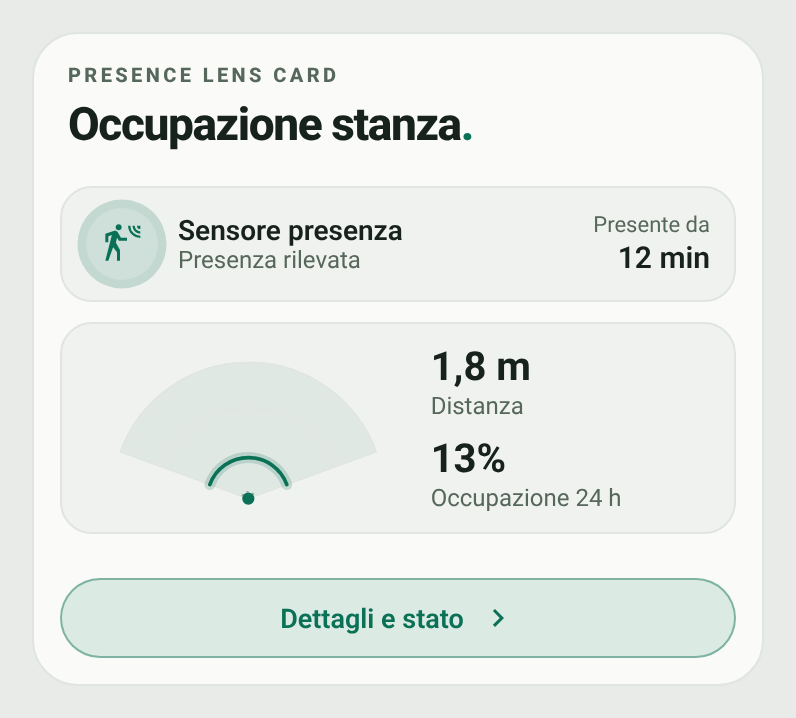
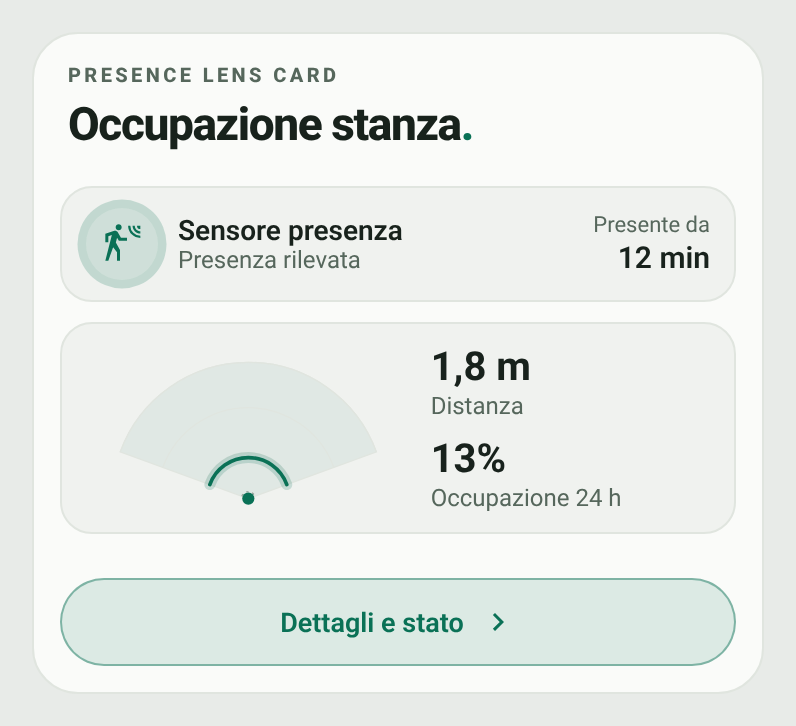
Resize details pill, fold the history list and keep the page position on close

diff --git a/dist/presence-lens-card.js b/dist/presence-lens-card.js
@@ -13,6 +13,8 @@
   const EDITOR_TAG = 'presence-lens-card-editor';
   const IS_PHONE = Math.min(window.screen ? window.screen.width : 9999, window.screen ? window.screen.height : 9999) < 600;
   const DAY = 86400000;
+  const EV_FOLD = 5;             // events shown in the popup before "Show full history"
+  const EV_MAX = 300;            // upper bound of the expanded list
   const HIST_REFRESH = 300000;   // history is requested at most every 5 minutes (60 s when the popup opens)
   const HIST_RETRY = 600000;     // after a failed request, wait 10 minutes before trying again
 
@@ -32,7 +34,7 @@
       na_note: 'Lo stato non disponibile non viene mai trattato come assenza di persone.',
       history: 'Cronologia', f_all: 'Tutto', f_on: 'Presenza', f_off: 'Assenza', f_na: 'Non disponibile',
       ev_on: 'Presenza rilevata', ev_off: 'Nessuna presenza', ev_na: 'Non disponibile', in_progress: 'in corso',
-      no_hist: 'Storico non disponibile. Serve Recorder con la cronologia abilitata.', no_events: 'Nessun evento per questo filtro.',
+      no_hist: 'Storico non disponibile. Serve Recorder con la cronologia abilitata.', no_events: 'Nessun evento per questo filtro.', show_all: 'Mostra tutta la cronologia', show_less: 'Mostra meno', n_events: 'eventi',
       no_target: 'Nessun bersaglio', na_radar: 'Sensore non disponibile', today: 'Oggi', yesterday: 'Ieri',
       example: 'Esempio', missing: 'Entità non trovata', missing_hint: 'Controlla l’entità nella configurazione della card:',
       u_min: 'min', u_h: 'h', u_d: 'g', radar_alt_on: 'Radar: bersaglio a', radar_alt_off: 'Radar: nessun bersaglio', radar_alt_na: 'Radar: sensore non disponibile',
@@ -53,7 +55,7 @@
       na_note: 'An unavailable state is never treated as nobody being there.',
       history: 'History', f_all: 'All', f_on: 'Presence', f_off: 'Absence', f_na: 'Unavailable',
       ev_on: 'Presence detected', ev_off: 'No presence', ev_na: 'Unavailable', in_progress: 'ongoing',
-      no_hist: 'History not available. It needs Recorder with history enabled.', no_events: 'No events for this filter.',
+      no_hist: 'History not available. It needs Recorder with history enabled.', no_events: 'No events for this filter.', show_all: 'Show full history', show_less: 'Show less', n_events: 'events',
       no_target: 'No target', na_radar: 'Sensor unavailable', today: 'Today', yesterday: 'Yesterday',
       example: 'Example', missing: 'Entity not found', missing_hint: 'Check the entity in the card configuration:',
       u_min: 'min', u_h: 'h', u_d: 'd', radar_alt_on: 'Radar: target at', radar_alt_off: 'Radar: no target', radar_alt_na: 'Radar: sensor unavailable',
@@ -227,7 +229,7 @@ ha-icon{display:block;flex:none;margin:0;--mdc-icon-size:20px;width:20px;height:
 .sbox .strip{height:8px;border-radius:4px}
 .sbox .shd{display:flex;justify-content:space-between;gap:8px;font-size:11px;color:var(--muted)}
 .sbox .shd b{font-weight:600;color:var(--fg)}
-.detail{display:flex;align-items:center;justify-content:center;gap:8px;width:100%;min-height:40px;padding:8px 14px;border-radius:999px;font-weight:600;font-size:13.5px;line-height:1.2;color:var(--btn-fg);border:1px solid color-mix(in srgb,var(--accent) 45%,transparent);background:color-mix(in srgb,var(--accent) 12%,transparent)}
+.detail{display:flex;align-items:center;justify-content:center;gap:8px;width:100%;min-height:44px;padding:10px 14px;border-radius:999px;font-weight:600;font-size:13.5px;line-height:1.2;color:var(--btn-fg);border:1px solid color-mix(in srgb,var(--accent) 45%,transparent);background:color-mix(in srgb,var(--accent) 12%,transparent)}
 .detail:hover{background:color-mix(in srgb,var(--accent) 22%,transparent)}
 .detail ha-icon{--mdc-icon-size:18px;width:18px;height:18px}
 .err{display:grid;gap:6px}
@@ -318,6 +320,7 @@ ha-icon{display:block;flex:none;margin:0;--mdc-icon-size:20px;width:20px;height:
 .mini .ml{font-size:12px;color:var(--muted)}
 .mini strong{font-size:16px;font-weight:600;font-variant-numeric:tabular-nums;white-space:nowrap;overflow:hidden;text-overflow:ellipsis}
 .chips{display:flex;flex-wrap:wrap;gap:6px}
+.more{display:block;width:100%;margin:8px 0 0;min-height:40px;border-radius:999px;border:1px solid var(--line);background:var(--bg);color:var(--fg);font:inherit;font-size:13px;font-weight:600;cursor:pointer}
 .chip{min-height:36px;padding:0 14px;border:1px solid var(--line);border-radius:999px;background:var(--bg);color:var(--muted);font-size:13px}
 .chip[aria-pressed="true"]{background:color-mix(in srgb,var(--accent) 14%,transparent);border-color:color-mix(in srgb,var(--accent) 45%,transparent);color:var(--fg);font-weight:600}
 .evs{display:grid;gap:8px}
@@ -338,7 +341,7 @@ ha-icon{display:block;flex:none;margin:0;--mdc-icon-size:20px;width:20px;height:
       this.shadowRoot.innerHTML = '<style>' + CARD_CSS + '</style><div id="r"></div>';
       this._root = this.shadowRoot.getElementById('r');
       this._cfg = null; this._hass = null; this._sig = null;
-      this._popup = false; this._filter = 'all'; this._focus = '';
+      this._popup = false; this._filter = 'all'; this._histAll = false; this._focus = '';
       this._hist = null; this._histAt = 0; this._histFail = 0; this._histBusy = false; this._histVer = 0;
       this._wide = false; this._timer = null;
       this._onKey = (e) => this._key(e);
@@ -558,14 +561,19 @@ ha-icon{display:block;flex:none;margin:0;--mdc-icon-size:20px;width:20px;height:
     _eventsHTML(m, T) {
       let list = m.segs.slice().reverse();
       if (this._filter !== 'all') list = list.filter((x) => x.st === this._filter);
+      const total = list.length;
+      if (total > EV_FOLD) list = list.slice(0, this._histAll ? EV_MAX : EV_FOLD);
       if (!list.length) return '<div class="empty">' + ic('mdi:information-outline') + '<span>' + esc(T.no_events) + '</span></div>';
       const last = m.segs[m.segs.length - 1];
-      return '<div class="evs">' + list.slice(0, 60).map((x) => {
+      const more = total > EV_FOLD
+        ? '<button class="more" type="button" data-more="1" aria-expanded="' + (this._histAll ? 'true' : 'false') + '">' + esc(this._histAll ? T.show_less : T.show_all + ' · ' + total + ' ' + T.n_events) + '</button>'
+        : '';
+      return '<div class="evs">' + list.map((x) => {
         const lv = x.st === 'on' ? 'ok' : x.st === 'na' ? 'warn' : 'neutral';
         const icn = x.st === 'on' ? 'mdi:motion-sensor' : x.st === 'na' ? 'mdi:alert-circle-outline' : 'mdi:motion-sensor-off';
         return '<div class="ev"><span class="ico ico-' + lv + '">' + ic(icn) + '</span><div class="evt"><div class="evn">' + esc(T['ev_' + x.st]) + '</div><div class="evs2">' +
           esc(this._clock(x.start, m.now)) + ' · ' + (x === last ? esc(T.in_progress) + ', ' : '') + esc(this._fmtDur(x.end - x.start)) + '</div></div></div>';
-      }).join('') + '</div>';
+      }).join('') + more + '</div>';
     }
     _popupHTML(m) {
       const c = this._cfg, T = this._T();
@@ -614,7 +622,7 @@ ha-icon{display:block;flex:none;margin:0;--mdc-icon-size:20px;width:20px;height:
       const m = this._model();
       const body = this._root.querySelector('.mbody');
       const top = body ? body.scrollTop : 0;
-      const act = this.shadowRoot.activeElement ? this.shadowRoot.activeElement.id || (this.shadowRoot.activeElement.dataset && this.shadowRoot.activeElement.dataset.filter ? 'f-' + this.shadowRoot.activeElement.dataset.filter : '') : '';
+      const act = this.shadowRoot.activeElement ? this.shadowRoot.activeElement.id || (this.shadowRoot.activeElement.dataset && this.shadowRoot.activeElement.dataset.filter ? 'f-' + this.shadowRoot.activeElement.dataset.filter : (this.shadowRoot.activeElement.dataset && this.shadowRoot.activeElement.dataset.more ? 'more' : '')) : '';
       if (this._popup) this._wide = this._layoutWide();
       this._root.innerHTML = this._cardHTML(m) + (this._popup && !m.missing ? this._popupHTML(m) : '');
       if (this._popup) {
@@ -626,6 +634,7 @@ ha-icon{display:block;flex:none;margin:0;--mdc-icon-size:20px;width:20px;height:
       if (want) {
         let el = null;
         if (want.indexOf('f-') === 0) el = this._root.querySelector('[data-filter="' + want.slice(2) + '"]');
+        else if (want === 'more') el = this._root.querySelector('[data-more]');
         else el = this.shadowRoot.getElementById(want);
         if (el) el.focus({ preventScroll: true });
       }
@@ -633,15 +642,53 @@ ha-icon{display:block;flex:none;margin:0;--mdc-icon-size:20px;width:20px;height:
 
     /* ---- interaction ---- */
     _click(e) {
-      const t = e.target && e.target.closest ? e.target.closest('[data-open],[data-close],[data-filter],[data-backdrop]') : null;
+      const t = e.target && e.target.closest ? e.target.closest('[data-open],[data-close],[data-filter],[data-more],[data-backdrop]') : null;
       if (!t) return;
       if (t.dataset.backdrop) { if (e.target === t) this._closePopup(); return; }
       if (t.dataset.open) { this._openPopup(); return; }
       if (t.dataset.close) { this._closePopup(); return; }
-      if (t.dataset.filter) { this._filter = t.dataset.filter; this._focus = 'f-' + t.dataset.filter; this._render(); }
+      if (t.dataset.filter) { this._filter = t.dataset.filter; this._histAll = false; this._focus = 'f-' + t.dataset.filter; this._render(); return; }
+      if (t.dataset.more) {
+        const collapse = this._histAll;
+        this._histAll = !this._histAll; this._focus = 'more'; this._render();
+        if (collapse) { // back to the top of the history so the reader does not end up in the middle of nowhere
+          const nb = this._root.querySelector('.mbody'), hb = this._root.querySelector('.b-hist');
+          if (nb && hb) nb.scrollTop = Math.max(0, nb.scrollTop + hb.getBoundingClientRect().top - nb.getBoundingClientRect().top - 8);
+        }
+      }
+    }
+    // Scrollable ancestors of the card (crossing shadow roots) plus the page: the dashboard behind the popup is locked,
+    // so whatever they scroll to while the popup is open must still be there when it closes.
+    _scrollers() {
+      const out = [];
+      let n = this;
+      while (n) {
+        if (n.nodeType === 1) {
+          const oy = window.getComputedStyle(n).overflowY;
+          if ((oy === 'auto' || oy === 'scroll') && n.scrollHeight > n.clientHeight) out.push([n, n.scrollTop]);
+        }
+        n = n.parentNode || n.host || null;
+      }
+      const se = document.scrollingElement;
+      if (se && !out.some((x) => x[0] === se)) out.push([se, se.scrollTop]);
+      return out;
+    }
+    _restoreScroll() {
+      const saved = this._sc; this._sc = null;
+      if (!saved || !saved.length) return;
+      let stop = false;
+      const halt = () => { stop = true; };
+      window.addEventListener('touchstart', halt, { once: true, passive: true, capture: true });
+      window.addEventListener('wheel', halt, { once: true, passive: true, capture: true });
+      const fix = () => { if (!stop) saved.forEach((x) => { if (Math.abs(x[0].scrollTop - x[1]) > 1) x[0].scrollTop = x[1]; }); };
+      fix();
+      window.requestAnimationFrame(() => { fix(); window.requestAnimationFrame(fix); });
+      window.setTimeout(fix, 150);
+      window.setTimeout(() => { fix(); window.removeEventListener('touchstart', halt, true); window.removeEventListener('wheel', halt, true); }, 400);
     }
     _openPopup() {
-      this._popup = true; this._filter = 'all'; this._focus = 'close'; this._wide = this._layoutWide();
+      this._sc = this._scrollers();
+      this._popup = true; this._filter = 'all'; this._histAll = false; this._focus = 'close'; this._wide = this._layoutWide();
       document.addEventListener('keydown', this._onKey, true);
       this._render();
       this._ensureHistory(false);
@@ -650,7 +697,14 @@ ha-icon{display:block;flex:none;margin:0;--mdc-icon-size:20px;width:20px;height:
       if (!this._popup) return;
       this._popup = false;
       document.removeEventListener('keydown', this._onKey, true);
-      this._focus = 'open'; this._render();
+      // only the popup is taken away: the card underneath is not rebuilt, so the page behind it has no reason to move
+      const bd = this._root.querySelector('.backdrop'), op = this.shadowRoot.getElementById('open');
+      if (bd && op) {
+        op.focus({ preventScroll: true });
+        bd.remove();
+        this._sig = null;
+      } else { this._focus = 'open'; this._render(); }
+      this._restoreScroll();
     }
     // The dashboard behind the popup must not move: scroll gestures that would leave the dialog body are cancelled.
     _lockScroll() {
